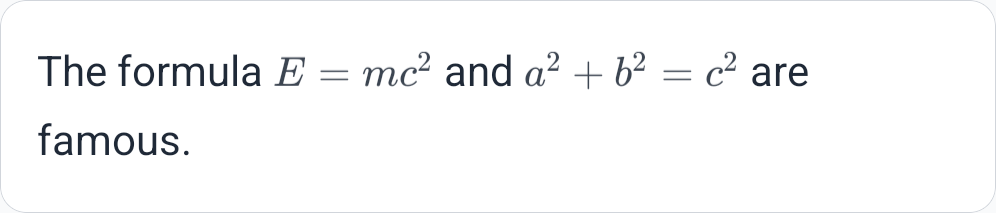
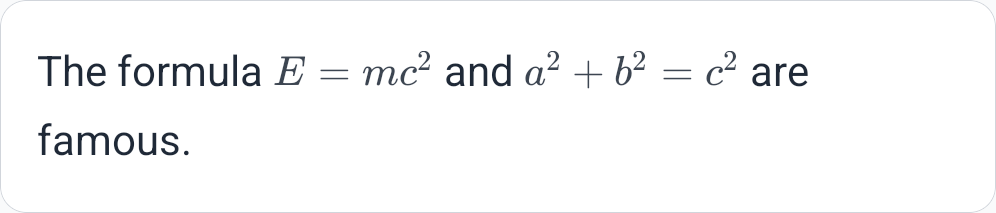
fix: fixed another clipping related issue

diff --git a/android/src/math/java/com/swmansion/enriched/markdown/spans/MathInlineSpan.kt b/android/src/math/java/com/swmansion/enriched/markdown/spans/MathInlineSpan.kt
@@ -9,7 +9,6 @@ import io.ratex.RaTeXEngine
 import io.ratex.RaTeXFontLoader
 import io.ratex.RaTeXRenderer
 import kotlin.math.ceil
-import kotlin.math.roundToInt
 
 class MathInlineSpan(
   private val context: Context,
@@ -63,9 +62,10 @@ class MathInlineSpan(
     prepareResources()
 
     fm?.apply {
-      ascent = -mathAscent.roundToInt()
+      val ascentPx = ceil(mathAscent).toInt()
+      ascent = -ascentPx
       top = ascent
-      descent = mathDescent.roundToInt()
+      descent = (cachedBitmap?.height ?: ceil(mathAscent + mathDescent).toInt()) - ascentPx
       bottom = descent
     }
 
@@ -85,7 +85,7 @@ class MathInlineSpan(
   ) {
     prepareResources()
     cachedBitmap?.let {
-      val bitmapY = y - mathAscent
+      val bitmapY = y - ceil(mathAscent)
       canvas.drawBitmap(it, x, bitmapY, paint)
     }
   }